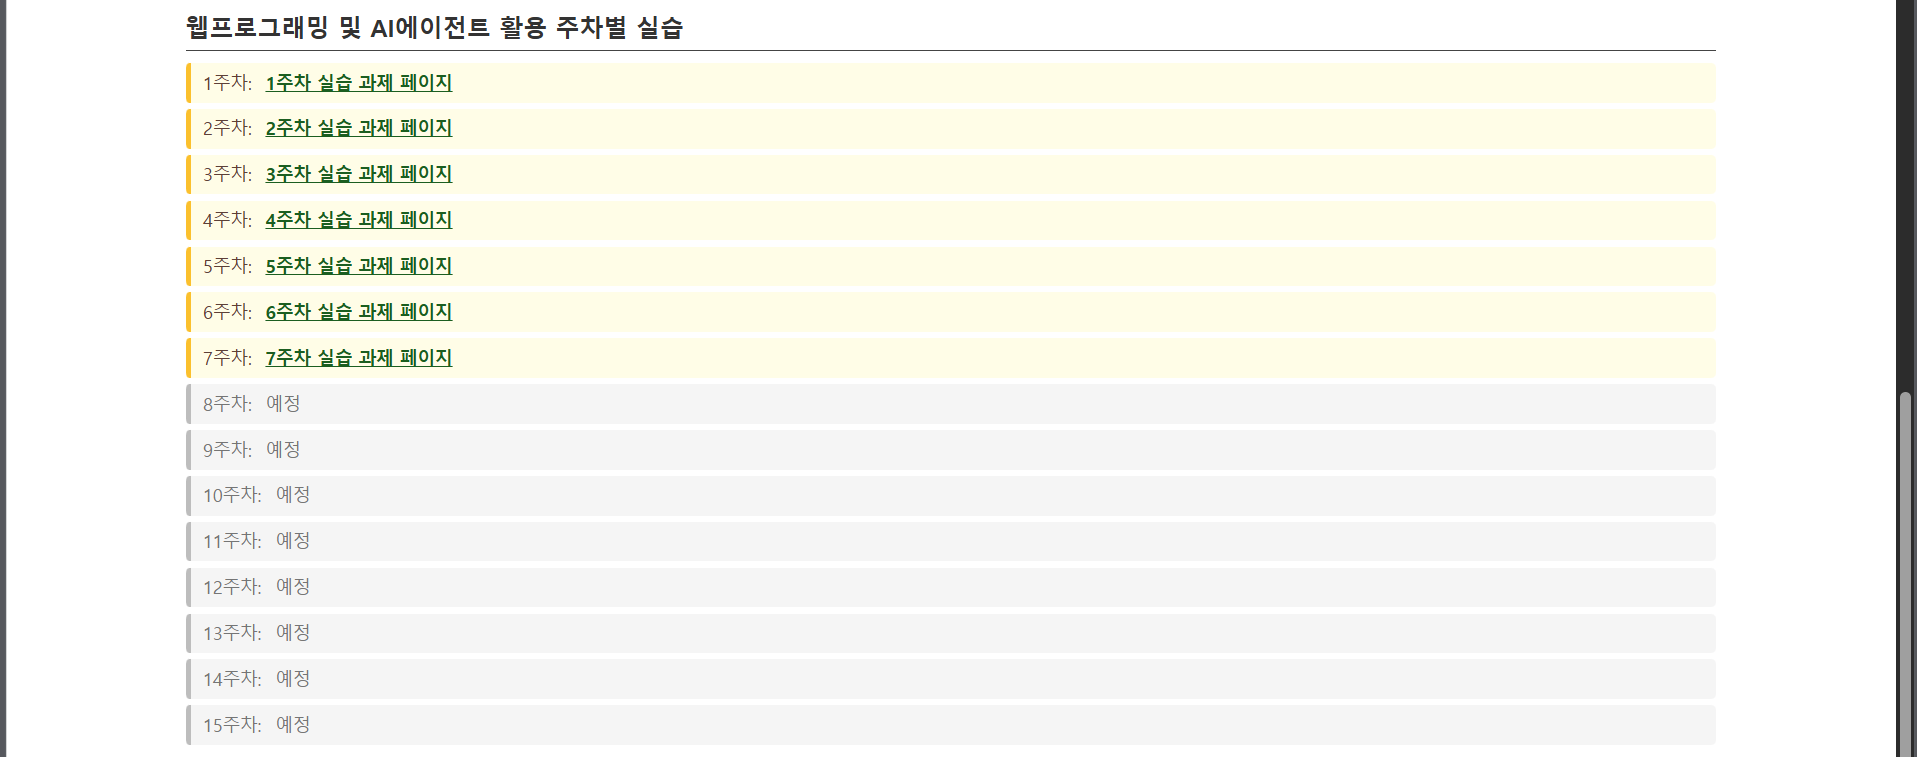
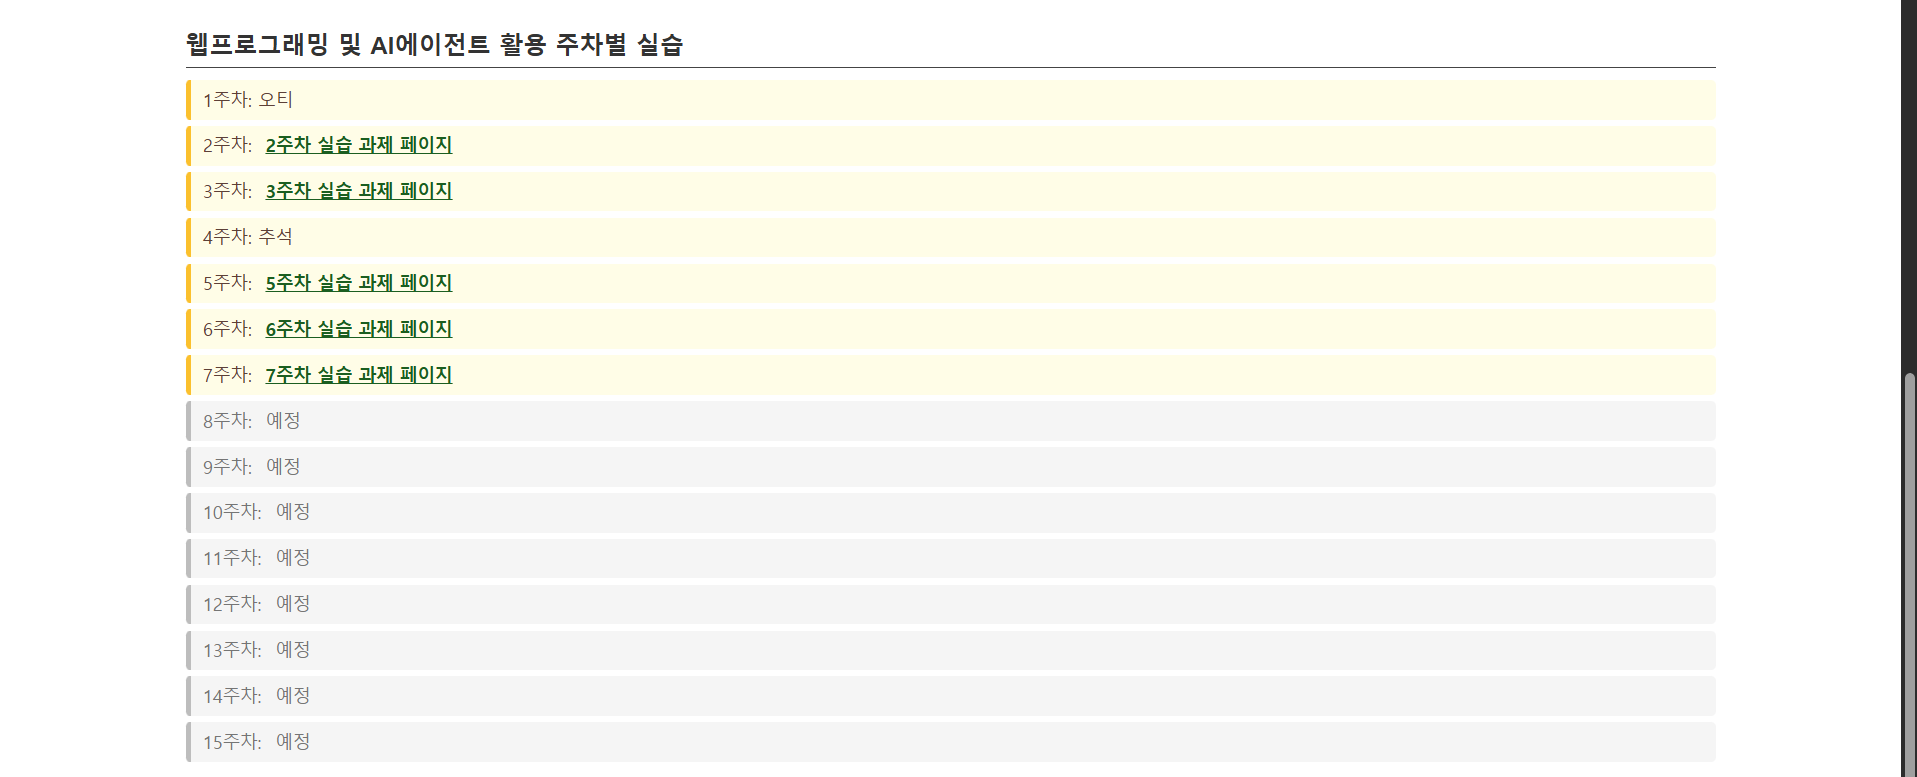
완성본

diff --git a/bb.html b/bb.html
@@ -1,5 +1,5 @@
 <!DOCTYPE html>
-<HTML>
+<Html lang="ko">
     <head>
         <meta charset="UTF-8">
         <meta name="viewport" content="width=device-width, initial-scale=1.0">
@@ -100,11 +100,11 @@
         <section id="f-05">
         <h2>웹프로그래밍 및 AI에이전트 활용 주차별 실습</h2>
         <ul class="week-list">
-            <li class="done">1주차: <a href="https://ecampus.smu.ac.kr/course/view.php?id=101225&section=1">1주차 실습 과제 페이지</a></li>
-            <li class="done">2주차: <a href="Untitled-1.html">2주차 실습 과제 페이지</a></li>
-            <li class="done">3주차: <a href="https://ecampus.smu.ac.kr/course/view.php?id=101225&section=3">3주차 실습 과제 페이지</a></li>
-            <li class="done">4주차: <a href="https://ecampus.smu.ac.kr/course/view.php?id=101225&section=4">4주차 실습 과제 페이지</a></li>
-            <li class="done">5주차: <a href="https://ecampus.smu.ac.kr/course/view.php?id=101225&section=5">5주차 실습 과제 페이지</a></li>
+            <li class="done">1주차: <span>오티</span></li>
+            <li class="done">2주차: <a href="2주차.html">2주차 실습 과제 페이지</a></li>
+            <li class="done">3주차: <a href="Untitled-1.html">3주차 실습 과제 페이지</a></li>
+            <li class="done">4주차: <span>추석</span></li>
+            <li class="done">5주차: <a href="5주차.html">5주차 실습 과제 페이지</a></li>
             <li class="done">6주차: <a href="byl(표).html">6주차 실습 과제 페이지</a></li>
             <li class="done">7주차: <a href="by1015.html">7주차 실습 과제 페이지</a></li>
 

diff --git a/index.html b/index.html
@@ -1,5 +1,5 @@
 <!DOCTYPE html>
-<HTML>
+<Html lang="ko">
     <head>
         <meta charset="UTF-8">
         <meta name="viewport" content="width=device-width, initial-scale=1.0">
@@ -100,11 +100,11 @@
         <section id="f-05">
         <h2>웹프로그래밍 및 AI에이전트 활용 주차별 실습</h2>
         <ul class="week-list">
-            <li class="done">1주차: <a href="https://ecampus.smu.ac.kr/course/view.php?id=101225&section=1">1주차 실습 과제 페이지</a></li>
-            <li class="done">2주차: <a href="Untitled-1.html">2주차 실습 과제 페이지</a></li>
-            <li class="done">3주차: <a href="https://ecampus.smu.ac.kr/course/view.php?id=101225&section=3">3주차 실습 과제 페이지</a></li>
-            <li class="done">4주차: <a href="https://ecampus.smu.ac.kr/course/view.php?id=101225&section=4">4주차 실습 과제 페이지</a></li>
-            <li class="done">5주차: <a href="https://ecampus.smu.ac.kr/course/view.php?id=101225&section=5">5주차 실습 과제 페이지</a></li>
+            <li class="done">1주차: <span>오티</span></li>
+            <li class="done">2주차: <a href="2주차.html">2주차 실습 과제 페이지</a></li>
+            <li class="done">3주차: <a href="Untitled-1.html">3주차 실습 과제 페이지</a></li>
+            <li class="done">4주차: <span>추석</span></li>
+            <li class="done">5주차: <a href="5주차.html">5주차 실습 과제 페이지</a></li>
             <li class="done">6주차: <a href="byl(표).html">6주차 실습 과제 페이지</a></li>
             <li class="done">7주차: <a href="by1015.html">7주차 실습 과제 페이지</a></li>
 

diff --git a/5주차.html b/5주차.html
@@ -1,0 +1,33 @@
+<!DOCTYPE html>
+<html>
+<head>
+    <meta charset="UTF-8">
+    <title>스타일시트 이해하기</title>
+    <style type="text/css">
+       
+        h3:before {
+            content: "◆";
+            color: blue;
+        }
+        h3:after {
+            content: " (©sblim)";
+            font-size: 10pt;
+            font-weight: normal;
+        }
+
+   
+        a:link {
+            color: blue;
+        }
+    </style>
+</head>
+<body>
+
+    <h3>스타일시트 이해하기</h3>
+
+    <p>이 예제는 <strong>CSS</strong>의 개념을 설명합니다.</p>
+
+    <p>선택자에 <a href="#">가상클래스</a>와 <a href="#">선택자 조합</a>을 적용하여 스타일을 지정합니다.</p>
+
+</body>
+</html>

diff --git a/2주차.html b/2주차.html
@@ -1,0 +1,17 @@
+<!DOCTYPE html>
+<html>
+<head>
+    <meta charset="UTF-8">
+    <title>HTML 시작하기</title>
+</head>
+<body>
+
+    <h2>HTML 시작하기</h2>
+    <hr>
+
+    <p>안녕하세요.</p>
+
+    <p>반갑습니다.</p>
+
+</body>
+</html>

diff --git a/REPORT.md b/REPORT.md
@@ -80,13 +80,13 @@
 
 | F-05 | ① 1~15주차 표시 ② 진행 주차 클릭 시 실습 페이지 이동 ③ 미진행 주차 "예정" 표시 및 링크 없음 ④ 진행/예정 주차 색상 구분 확인 | Pass | [캡처](images/check_F05.png ) |
 
-| F-06 | ① 하단에 "최종 수정일: YYYY-MM-DD" 형식 표시 ② 배포 저장소의 마지막 커밋 날짜와 일치하는지 확인 | Pass | ( ) |
+| F-06 | ① 하단에 "최종 수정일: YYYY-MM-DD" 형식 표시 ② 배포 저장소의 마지막 커밋 날짜와 일치하는지 확인 | Pass | [캡처](images/check_F06.png ) |
 
-| Q-HTML | W3C HTML 검사기(https://( )validator.w3.org/)로 배포 URL 검사 | Pass | ( ) |
+| Q-HTML | W3C HTML 검사기(https://( )validator.w3.org/)로 배포 URL 검사 | Pass |  [캡처](images/check_HTML.png ) |
 
-| Q-CSS | W3C CSS 검사기(https://jigsaw.w3.org/css-validator/)로 검사 + 인라인 style 사용 여부 확인 + 창 크기 변경 확인 | Pass | ( ) |
+| Q-CSS | W3C CSS 검사기(https://jigsaw.w3.org/css-validator/)로 검사 + 인라인 style 사용 여부 확인 + 창 크기 변경 확인 | Pass | [캡처](images/check_CSS.png ) |
 
-| Q-DEPLOY | 배포 URL에서 모든 링크 클릭, 모든 이미지 표시 확인 | ( Pass) | ( ) |
+| Q-DEPLOY | 배포 URL에서 모든 링크 클릭, 모든 이미지 표시 확인 | ( Pass) | [캡처](images/check_2.png ) [캡처](images/check_3.png ) [캡처](images/check_5.png ) [캡처](images/check_6.png ) [캡처](images/check_7.png )|
 
 
 
